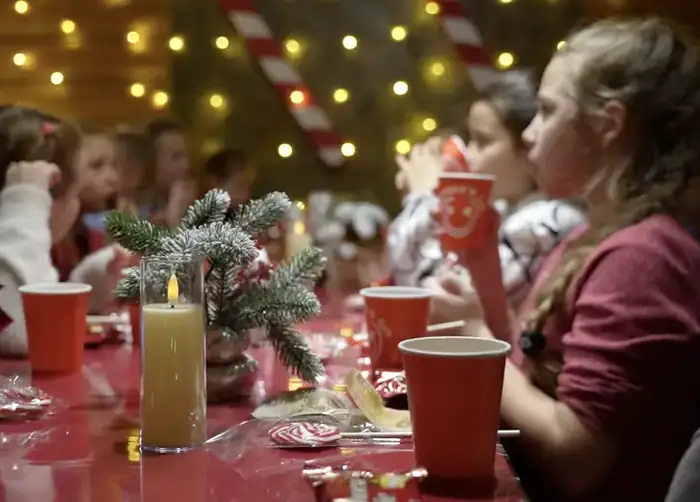
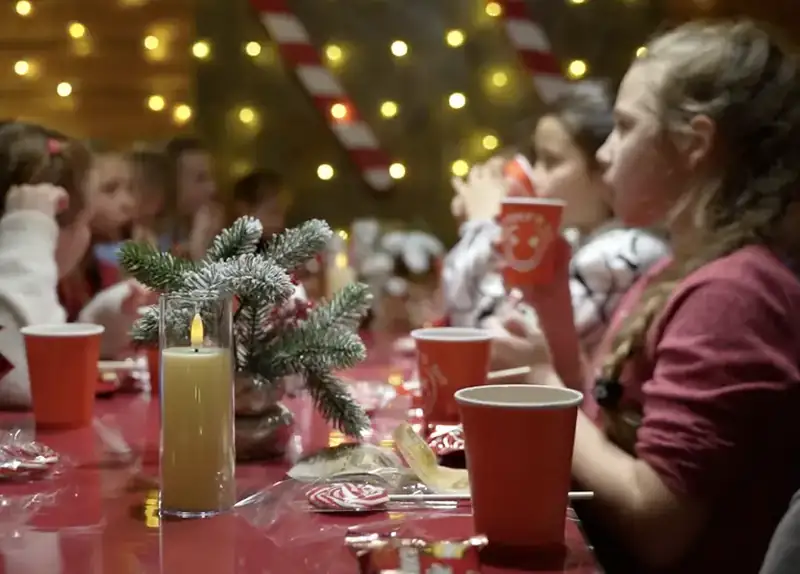
Сайт НН: карточка четвёртого экрана крупнее — холст обрезан по её краям
Пустые поля вокруг карточки съедали десятую часть ширины экрана с каждой
стороны. Холст картинки обрезан до 904x1492: поля 46 px по бокам и 40 сверху,
ровно столько, сколько нужно тени и снегу. Карточка занимает 90 % ширины
блока вместо 79 % — на телефоне это плюс 13 % к размеру, отступ по бокам
20 px вместо 40.

Окно с фотографиями пересчитано под новый холст, кадры пересобраны крупнее
(800x574), края сугроба растворены мягче — на планшете картинка уже экрана,
и жёсткий срез там был заметен.

diff --git a/v2.html b/v2.html
@@ -1037,18 +1037,20 @@ body.vcanvas #v{inset:auto; left:0; top:0; width:1px; height:1px; opacity:0}
      кадры .dkm-win img — поэтому фотография в рамке живая, а рамка и плашка
      с текстом остаются сверху и аккуратно режут её края.
 
-     Числа окна — доли от холста картинки 1024x1536 (левый край 122 px,
-     верх 99, ширина 782, высота 561). Меняешь картинку — пересчитай их,
-     иначе кадры вылезут из-под рамки. */
+     Числа окна — доли от холста картинки 904x1492 (левый край 60 px,
+     верх 55, ширина 782, высота 561). Меняешь картинку — пересчитай их,
+     иначе кадры вылезут из-под рамки. Холст обрезан по краям карточки:
+     поля 46 px по бокам и 40 сверху — ровно столько, сколько нужно тени
+     и снегу, поэтому на телефоне карточка идёт почти во всю ширину. */
   .dkm{display:block; position:relative; z-index:5;
     width:var(--m); margin:calc(70 * var(--m) / 1080) auto 0}
-  .dkm-hold{position:relative; width:100%; aspect-ratio:1024/1536}
+  .dkm-hold{position:relative; width:100%; aspect-ratio:904/1492}
   /* Фон вокруг карточки вырезан в самой картинке: карточка со своим снегом
      лежит на белом поле секции. Тень тоже нарисована в файле — CSS-фильтр
      здесь не годится, он размывал бы и полупрозрачный снег. */
   .dkm-pic{position:absolute; inset:0; display:block; width:100%; height:100%}
-  .dkm-win{position:absolute; left:11.914%; top:6.445%;
-    width:76.367%; height:36.523%; overflow:hidden; background:#EDE3D0}
+  .dkm-win{position:absolute; left:6.637%; top:3.686%;
+    width:86.504%; height:37.601%; overflow:hidden; background:#EDE3D0}
   .dkm-win img{position:absolute; inset:0; width:100%; height:100%;
     object-fit:cover; opacity:0}                    /* смена кадров — резкая, без плавности */
   .dkm-win img.on{opacity:1}
@@ -2162,9 +2164,9 @@ html.zs-lock .nav{margin-right:var(--zs-sbw,0px)}
   <div class="dkm" aria-hidden="true">
     <div class="dkm-hold">
       <div class="dkm-win" id="dkmWin">
-        <img class="on" src="info/i1.webp" width="700" height="502" alt="" loading="lazy" decoding="async">
+        <img class="on" src="info/i1.webp" width="800" height="574" alt="" loading="lazy" decoding="async">
       </div>
-      <img class="dkm-pic" src="v2-info.webp" width="1024" height="1536"
+      <img class="dkm-pic" src="v2-info.webp" width="904" height="1492"
            loading="lazy" decoding="async" alt="">
     </div>
   </div>
@@ -4232,7 +4234,7 @@ html.zs-lock .nav{margin-right:var(--zs-sbw,0px)}
     var wait = [];
     for (var i = 0; i < SRC.length; i++){
       var im = document.createElement('img');
-      im.src = SRC[i]; im.alt = ''; im.width = 700; im.height = 502; im.decoding = 'async';
+      im.src = SRC[i]; im.alt = ''; im.width = 800; im.height = 574; im.decoding = 'async';
       win.appendChild(im); shots.push(im);
       wait.push(im.decode ? im.decode().catch(function(){}) 
                           : new Promise(function(r){ im.onload = im.onerror = r; }));
